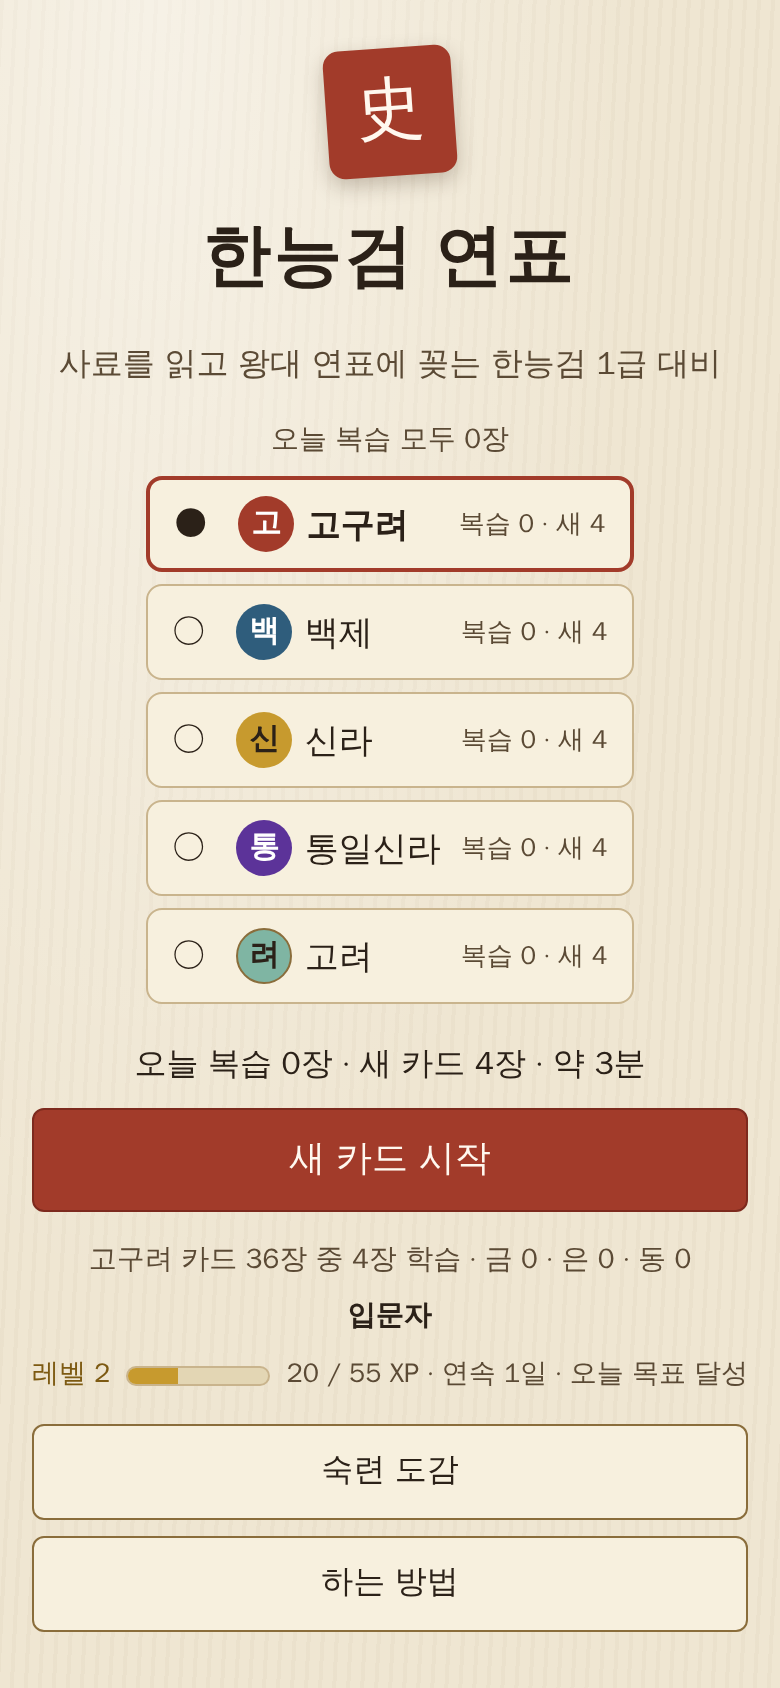
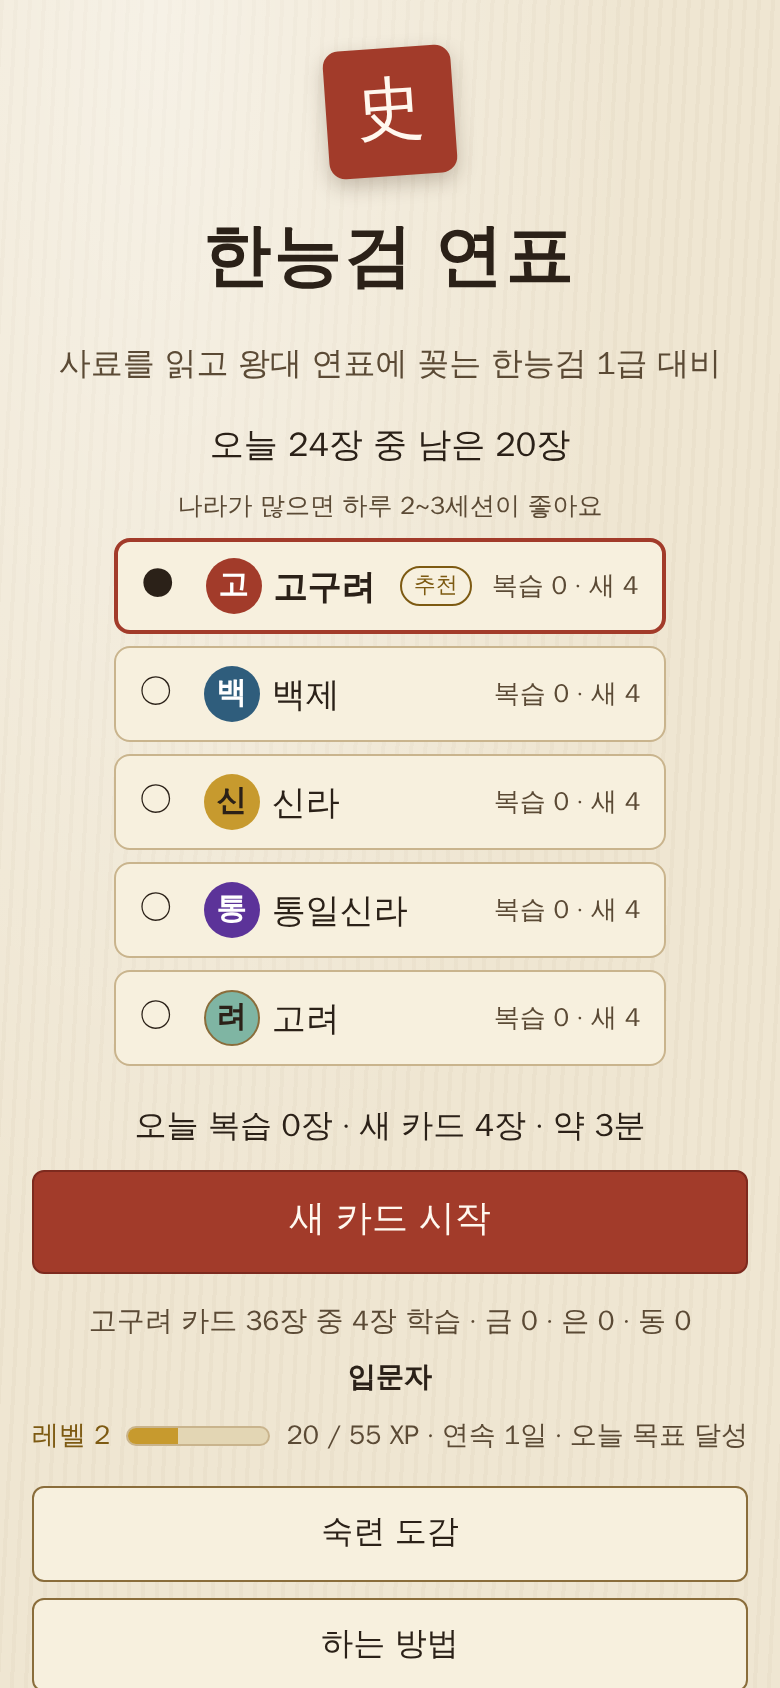
feat: dedupe off-list king line, 24-card title count, recommendation, log fields (D118)
- Skip the automatic "실제로는" line when the explanation already has it (D217)
- Title shows "오늘 24장 중 남은 n장", sorts nations by due + new, marks 추천
- 5+ nations: 2-3 sessions tip
- title_view logs recommended_nation and per-nation due/new
- offListKing reads "원년"; screenshots re-shot

Task: D193 (D237, D238)

Claude-Session: https://claude.ai/code/session_01KFwKcXZaAYXL5Re7NZj86K

Changed region(s): [[0.0308, 0.2464, 0.9846, 0.9858], [0.0308, 0.8934, 0.0615, 0.9858], [0.1231, 0.3389, 0.1538, 0.3697]]

diff --git a/prototypes/m1-timeline/js/main.js b/prototypes/m1-timeline/js/main.js
@@ -301,7 +301,7 @@ function renderResult(box) {
     r.correct ? null : el('p', { class: 'result-where', id: 'result-where' }, '고른 칸: ', el('s', {}, r.placedText), el('br'), '맞는 칸: ', el('b', {}, r.rightText)),
     el('p', { class: 'result-box', id: 'result-box', dataset: { from: String(r.boxFrom ?? ''), to: String(r.boxTo ?? '') } },
       boxLine, !r.practice && !r.retry && grade ? ` · 등급 ${GRADE_NAME[grade]}` : ''),
-    !app.study && offListKing(card, app.deck.anchors) ? el('p', { class: 'result-offlist', id: 'result-offlist' }, `실제로는 ${offListKing(card, app.deck.anchors)} 때(연표 목록에 없는 왕)예요. 연표에서는 그 앞 왕의 칸에 들어가요.`) : null,
+    !app.study && !String(card.explanation ?? '').includes('실제로는') && offListKing(card, app.deck.anchors) ? el('p', { class: 'result-offlist', id: 'result-offlist' }, `실제로는 ${offListKing(card, app.deck.anchors)} 때(연표 목록에 없는 왕)예요. 연표에서는 그 앞 왕의 칸에 들어가요.`) : null,
     explainBlock(card, !app.study && r.correct && grade >= 2),
     el('button', { type: 'button', id: 'btn-next', class: 'btn btn-primary', onclick: onNext }, isLast ? (app.state.practice ? '연습 끝내기' : '세션 결과 보기') : '다음 카드'),
   ].filter(Boolean));
@@ -1351,6 +1351,7 @@ function switchNation(n) {
 
 /** 타이틀의 나라 선택: 활성 1~2개는 칩 줄 + 요약 한 줄, 3개 이상은 세로 목록(행마다 오늘 할 일). */
 function renderTitleNations() {
+  app.titleNations = null;
   const nations = app.nations.length ? app.nations : [{ id: app.nation, label: app.deck.nation_label ?? app.nation, files: ['-'] }];
   const active = nations.filter((n) => n.files.length && (n.id === app.nation || app.nationDecks.has(n.id)));
   const plans = new Map(active.map((n) => [n.id, planFor(n.id)]));
@@ -1359,10 +1360,18 @@ function renderTitleNations() {
   const learned = (id) => deckOf(id).cards.filter((c) => allP[c.id]?.introduced).length;
   const soon = nations.filter((n) => !active.includes(n));
   if (active.length >= 3) {
-    const order = [...active].sort((a, b) => (plans.get(b.id).left > 0) - (plans.get(a.id).left > 0) || nations.indexOf(a) - nations.indexOf(b));
+    // D193(D237): 추천 정렬은 도래 + 새 카드(도래만 세면 새 나라가 열리지 않는다). 같으면 manifest 순서.
+    const weight = (id) => plans.get(id).due + plans.get(id).fresh;
+    const order = [...active].sort((a, b) => weight(b.id) - weight(a.id) || nations.indexOf(a) - nations.indexOf(b));
+    const rec = weight(order[0].id) > 0 ? order[0].id : null;
+    app.titleNations = { recommended: rec, nations: active.map((n) => ({ nation: n.id, due_n: plans.get(n.id).due, new_n: plans.get(n.id).fresh })) };
+    const cap = R.daily_card_soft_cap;
+    const doneToday = rewardsOn() && app.rewards.day.key === dayOpts().today ? (app.rewards.day.cards ?? 0) : 0;
     const tot = [...plans.values()].reduce((x, p) => ({ due: x.due + p.due, fresh: x.fresh + p.fresh }), { due: 0, fresh: 0 });
     fill($('title-nations'),
-      el('p', { class: 'nation-total', id: 'title-nation-total' }, softCapReached() ? `내일로 미뤄도 돼요 (복습 ${tot.due}장)` : `오늘 복습 모두 ${tot.due}장`),
+      el('p', { class: 'nation-total', id: 'title-nation-total', dataset: { left: String(Math.max(0, cap - doneToday)), due: String(tot.due) } },
+        softCapReached() ? `오늘 ${cap}장을 다 했어요 · 남은 복습은 내일로 미뤄도 돼요` : el('b', {}, `오늘 ${cap}장 중 남은 ${cap - doneToday}장`)),
+      active.length >= 5 ? el('p', { class: 'nation-tip source-note', id: 'title-nation-tip' }, '나라가 많으면 하루 2~3세션이 좋아요') : null,
       el('div', {
         class: 'nation-list', role: 'radiogroup', 'aria-label': '나라',
         // 방향키로 행 사이를 옮기고 Enter·Space로 고른다(title-screen.md §4, 접근성)
@@ -1379,15 +1388,16 @@ function renderTitleNations() {
       }, order.map((n) => {
         const p = plans.get(n.id);
         const on = n.id === app.nation;
-        const label = `${n.label}, ${deckOf(n.id).cards.length}장 중 ${learned(n.id)}장 학습, 오늘 복습 ${p.due}장 새 카드 ${p.fresh}장`;
+        const label = `${n.label}${n.id === rec ? ', 추천' : ''}, ${deckOf(n.id).cards.length}장 중 ${learned(n.id)}장 학습, 오늘 복습 ${p.due}장 새 카드 ${p.fresh}장`;
         return el('button', { type: 'button', role: 'radio', class: 'nation-row' + (on ? ' is-on' : ''), dataset: { nation: n.id }, 'aria-checked': on ? 'true' : 'false', tabindex: on ? '0' : '-1', 'aria-label': label, onclick: () => switchNation(n) },
           el('span', { class: 'nation-mark', 'aria-hidden': 'true' }, on ? '●' : '○'),
-          el('span', { class: 'nation-name' }, seal(n.id), ' ', n.label),
+          el('span', { class: 'nation-name' }, seal(n.id), ' ', n.label, n.id === rec ? el('span', { class: 'nation-rec' }, '추천') : null),
           el('span', { class: 'nation-meta' }, `복습 ${p.due} · 새 ${p.fresh}`));
       })),
       soon.length ? el('details', { class: 'nation-soon-list' }, el('summary', {}, `준비 중 ${soon.length}개`), el('p', { class: 'source-note' }, soon.map((n) => n.label).join(' · '))) : null);
     return;
   }
+  app.titleNations = { recommended: null, nations: active.map((n) => ({ nation: n.id, due_n: plans.get(n.id).due, new_n: plans.get(n.id).fresh })) };
   fill($('title-nations'),
     el('div', { class: 'nation-chips' }, nations.map((n) => el('button', {
       type: 'button', class: 'chip nation', dataset: { nation: n.id }, 'aria-pressed': n.id === app.nation ? 'true' : 'false', disabled: !active.includes(n),
@@ -1427,7 +1437,7 @@ function showTitle() {
   }[plan.mode];
   const label = { continue: `이어하기 · ${plan.left}장 남음`, review: '복습 시작', new: '새 카드 시작', done: '오늘 끝 · 미리 복습' }[plan.mode];
   renderTitleNations();
-  logEvent('title_view', { resume: plan.mode === 'continue', due_n: plan.due, new_n: plan.fresh, est_min: Math.max(1, Math.ceil((plan.left * CONFIG.secondsPerCard) / 60)), nations_active_n: Math.max(1, app.nations.filter((n) => n.files.length).length) });
+  logEvent('title_view', { resume: plan.mode === 'continue', due_n: plan.due, new_n: plan.fresh, est_min: Math.max(1, Math.ceil((plan.left * CONFIG.secondsPerCard) / 60)), nations_active_n: Math.max(1, app.nations.filter((n) => n.files.length).length), recommended_nation: app.titleNations?.recommended ?? null, nations: app.titleNations?.nations ?? [{ nation: app.nation, due_n: plan.due, new_n: plan.fresh }] });
   persist();
   const extra = [];
   if (plan.guarded && plan.unintroduced) extra.push(`아직 열리지 않은 카드 ${plan.unintroduced}장 · 복습을 먼저 마치면 열려요`);

diff --git a/prototypes/m1-timeline/js/rules.js b/prototypes/m1-timeline/js/rules.js
@@ -439,7 +439,7 @@ export function restoreSession(saved, cards) {
  * 연표 칸은 "이 왕 즉위 뒤 ~ 다음 왕 즉위 전"이라 앵커가 없는 왕 때의 사건은 앞 앵커 칸에 들어간다. 해설 첫 줄에 알린다.
  */
 export function offListKing(card, anchors) {
-  const name = String(card?.reign ?? '').replace(/\(.*?\)/g, '').replace(/\s*(\d+|즉위)년.*$/, '').trim();
+  const name = String(card?.reign ?? '').replace(/\(.*?\)/g, '').replace(/\s*(\d+|즉위|원)년.*$/, '').trim();
   if (!name || !/[왕종조]$/.test(name)) return null;
   const same = (t) => t && (t === name || name.endsWith(` ${t}`) || t.endsWith(` ${name}`));
   return anchors.some((a) => same(a.title) || same(a.reign)) ? null : name;

diff --git a/prototypes/m1-timeline/tests/rules.test.js b/prototypes/m1-timeline/tests/rules.test.js
@@ -632,6 +632,7 @@ describe('offListKing', () => {
   const anchors = [{ title: '인종', reign: '인종' }, { title: '명종', reign: '명종' }, { title: '태종 무열왕', reign: '태종 무열왕' }];
   test('목록에 없는 왕 이름을 돌려준다', () => {
     assert.equal(offListKing({ reign: '의종 24년' }, anchors), '의종');
+    assert.equal(offListKing({ reign: '신종 원년' }, anchors), '신종');
     assert.equal(offListKing({ reign: '위덕왕 13년(창왕 13년)' }, anchors), '위덕왕');
     assert.equal(offListKing({ reign: '신라 문무왕 10년(고구려 멸망 2년 뒤)' }, anchors), '신라 문무왕');
   });

diff --git a/prototypes/m1-timeline/style.css b/prototypes/m1-timeline/style.css
@@ -343,3 +343,7 @@ body { min-height: 100vh; background-attachment: fixed; }
 .chip .seal { width: 22px; height: 22px; font-size: 12px; }
 .nation-name { display: inline-flex; align-items: center; gap: 6px; }
 .settle-up { margin: 6px 0 0; font-size: 15px; }
+
+.nation-rec { margin-left: 6px; padding: 0 6px; border: 1px solid var(--gold); border-radius: 999px; font-family: var(--sans); font-size: 11px; font-weight: 700; color: #7D5A12; line-height: 18px; }
+.nation-total b { font-size: 17px; color: var(--ink); }
+.nation-tip { margin: 0; text-align: center; }

diff --git a/docs/decision-log.md b/docs/decision-log.md
@@ -1267,6 +1267,12 @@
 - **D238 로그**: `title_view`에 `recommended_nation`·`nations` 필드 추가(웹).
 - 설계가 rewards-spec §9 예시의 `daily_session_soft_cap`을 `daily_card_soft_cap: 24`로 고친다.
 
+## 2026-11-05 D118. D193 웹 반영: "실제로는" 중복 방지, 타이틀 "오늘 24장 중 남은 n장"·추천 정렬·2~3세션 안내, title_view 로그 (웹 빌드 세션)
+- **중복 방지**: 카드 해설에 "실제로는"이 있으면(콘텐츠 D217 정본, 19장) 자동 줄(D117 `#result-offlist`)을 띄우지 않는다. 지금 실제 덱에서는 자동 줄이 나오는 카드가 0장이고, 해설이 없는 새 카드에만 대비로 남는다. `offListKing`이 "신종 원년"도 읽게 고쳤다(단위 테스트). 고정 데이터 `goryeo-offlist.json`: 실제 무신정변(자동 줄 없음) + 만적의 난 사본에서 "실제로는" 문장을 뺀 가짜 카드(자동 줄 "실제로는 신종 때") + 광종 카드(줄 없음).
+- **타이틀(D237)**: 목록 위 큰 숫자는 "오늘 24장 중 남은 n장"(`daily_card_soft_cap` − 그날 본 장수), 다 하면 "오늘 24장을 다 했어요 · 남은 복습은 내일로 미뤄도 돼요". 전체 도래 수는 크게 보이지 않는다(data-due에만). 나라 5개 이상이면 "나라가 많으면 하루 2~3세션이 좋아요". 정렬은 도래 + 새 카드(같으면 manifest 순), 맨 위 행에 "추천" 표시(낭독 이름에도). 390px 최악 경우(통일신라 + 추천 + "복습 108 · 새 12")도 행 48px, 가로 스크롤 없음. [시작] 아래 끝 약 639px.
+- **로그(D238)**: `title_view`에 `recommended_nation`(나라 3개 이상에서 맨 위 추천, 할 일 0이면 null; 2개 이하 null)과 `nations`(`[{nation, due_n, new_n}]`). e2e 확인.
+- 단위 97, e2e 65 통과. 스크린샷 71장 재촬영.
+
 ## 남은 문제
 - 카드 44장 전부 `verified: false`. 사람의 사실 확인 전에는 출시 빌드에 넣을 카드가 없다(`validate_cards.py --release` 실패가 정상).
 - 같은 사료(삼국사기 전승)에 기댄 건국기 카드가 많다. 플레이에서 건국기 칸이 단서 3단계 의존으로 쏠리는지 볼 것.
